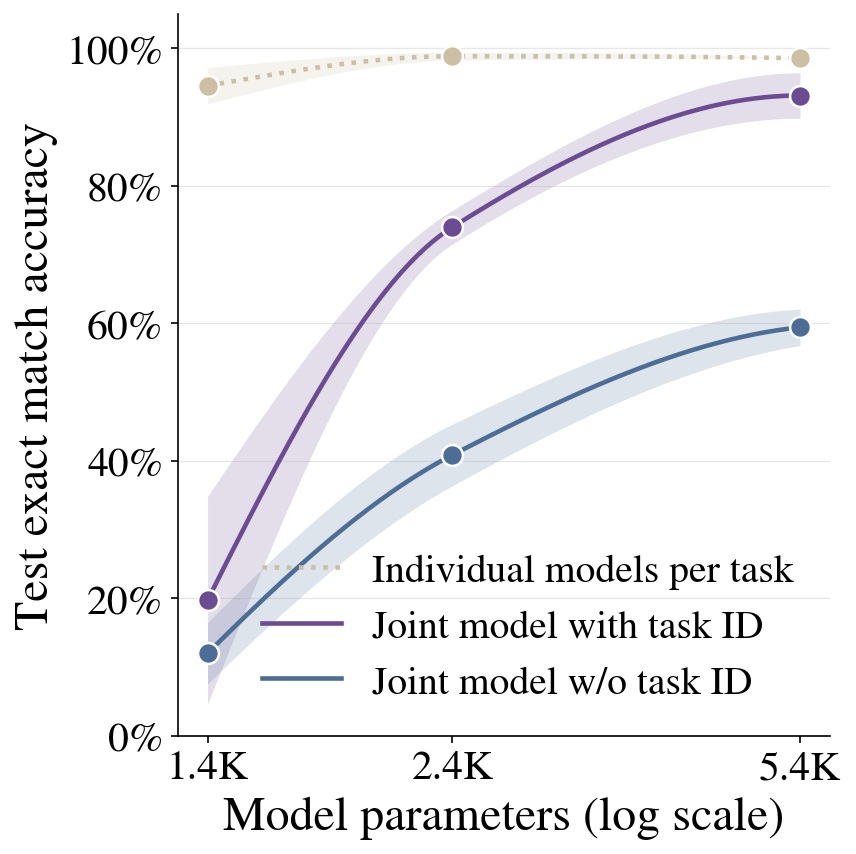
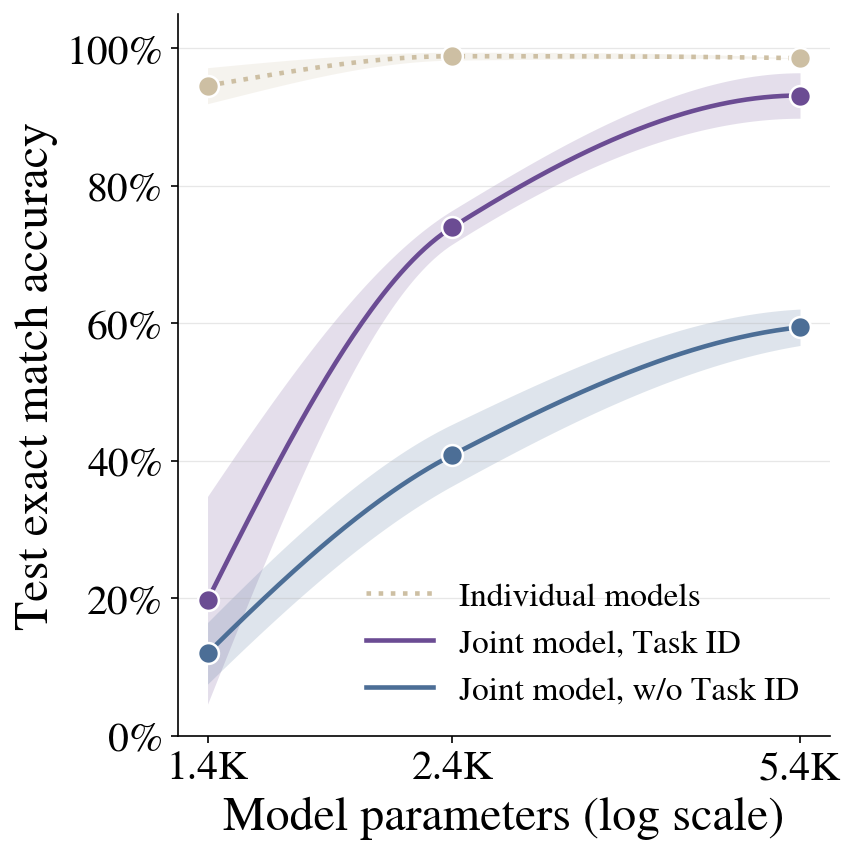
capacity_cliff: shorter legend labels, smaller legend to stop occluding the lines
'Individual models per task' -> 'Individual models'; 'Joint model with
task ID' -> 'Joint model, Task ID'; 'Joint model w/o task ID' -> 'Joint
model, w/o Task ID'. legend.fontsize 19 -> 16 -- at the larger size the
legend box overlapped the w/o-task-ID curve's rising tail.

Changed region(s): [[0.4252, 0.6393, 0.9416, 0.822], [0.3037, 0.7916, 0.3949, 0.822], [0.3037, 0.7002, 0.3949, 0.7307]]

diff --git a/configs/experiments/arc1d_v2_multitask/plot_capacity_cliff.py b/configs/experiments/arc1d_v2_multitask/plot_capacity_cliff.py
@@ -66,9 +66,9 @@ COLORS = {
 }
 LINESTYLES = {"individual": ":", "notd": "-", "td": "-"}
 LABELS = {
-    "individual": "Individual models per task",
-    "td": "Joint model with task ID",
-    "notd": "Joint model w/o task ID",
+    "individual": "Individual models",
+    "td": "Joint model, Task ID",
+    "notd": "Joint model, w/o Task ID",
 }
 CSV_FIELDS = ["condition", "dim", "params", "seed", "test_exact_match"]
 
@@ -209,7 +209,7 @@ def plot(series: dict[str, dict[str, dict]], out_path: Path) -> None:
             "axes.labelsize": 23,
             "xtick.labelsize": 20,
             "ytick.labelsize": 20,
-            "legend.fontsize": 19,
+            "legend.fontsize": 16,
             "pdf.fonttype": 42,  # embed as TrueType, not the default Type 3
         }
     )
